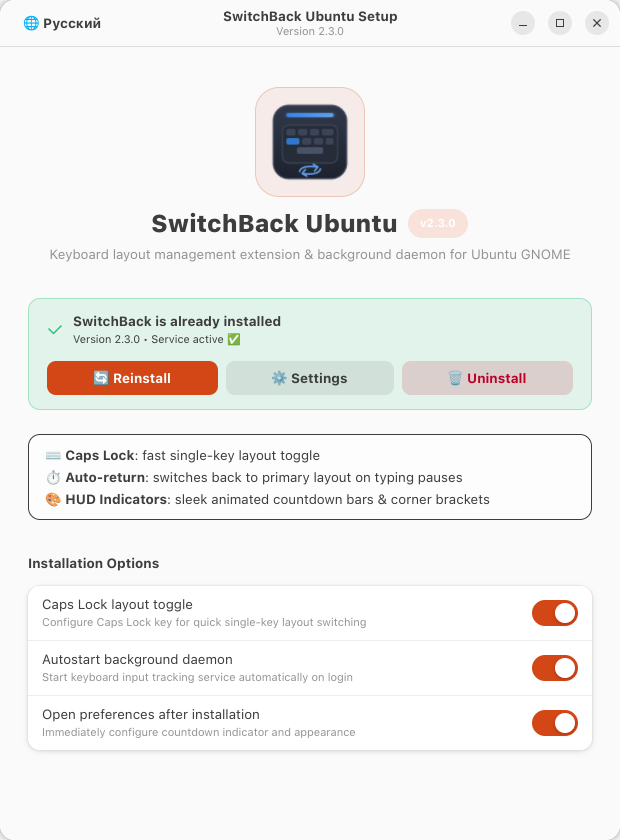
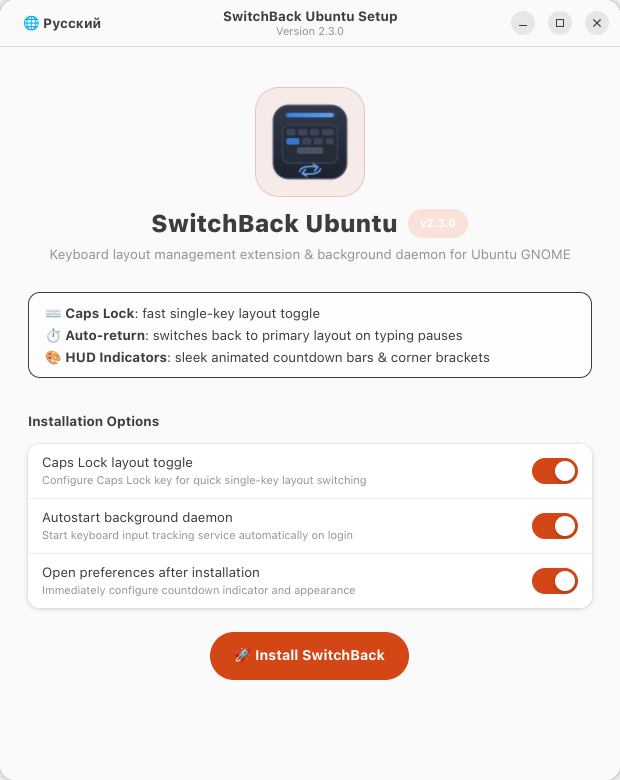
docs: add localized fresh install and progress screenshots to READMEs

diff --git a/README.ru.md b/README.ru.md
@@ -124,9 +124,13 @@ cd SwitchBack-Ubuntu
 ```
 *(Также можно просто дважды кликнуть по файлу `SwitchBack-Installer.desktop` в проводнике «Файлы»)*
 
-<p align="center">
-  <img src="docs/screenshots/installer-gui.png" width="500" alt="Графический установщик SwitchBack" />
-</p>
+<div align="center">
+
+| Экран параметров установки | Процесс установки и журнал |
+| :---: | :---: |
+| <img src="docs/screenshots/installer-gui.png" width="380" alt="Графический установщик SwitchBack" /> | <img src="docs/screenshots/installer-gui-progress.png" width="380" alt="Процесс установки и терминальный журнал" /> |
+
+</div>
 
 ### Способ Б: Установка через терминал
 Запустите скрипт автоматической установки:

diff --git a/README.md b/README.md
@@ -123,9 +123,13 @@ Launch the modern GTK4/Libadwaita installer:
 ```
 *(You can also double-click `SwitchBack-Installer.desktop` directly in Ubuntu Files / Nautilus)*
 
-<p align="center">
-  <img src="docs/screenshots/installer-gui-en.png" width="500" alt="SwitchBack Graphical Installer" />
-</p>
+<div align="center">
+
+| Setup Options | Live Progress & Log |
+| :---: | :---: |
+| <img src="docs/screenshots/installer-gui-en.png" width="380" alt="SwitchBack Graphical Setup" /> | <img src="docs/screenshots/installer-gui-progress-en.png" width="380" alt="Live Installation Progress" /> |
+
+</div>
 
 ### Option B: Terminal Script
 Run the automated CLI script:
